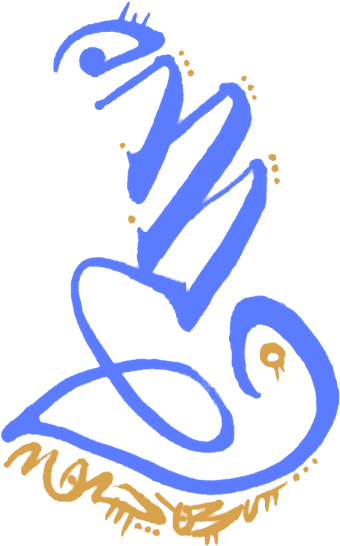
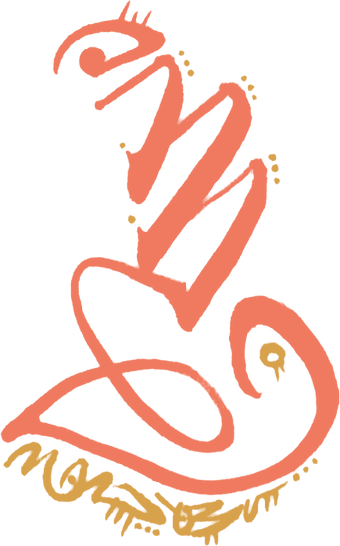
Quatre convictions, et le signe bleu passe au corail
Les textes répondent au titre : la conviction ouvre chaque bloc, le parcours
et la méthode viennent l'appuyer. « Vivre plutôt que guérir » devient
« Vivre et grandir » — la formule de comparaison n'avait plus sa place.

Le signe de « Sortir des conditionnements » prend le corail de la famille
(#F07A5F, celui des trois autres) et garde ses touches d'or.

Le tracé disparaît de la section du formulaire. À 0,055 d'opacité sur cette
photo d'eau, on ne le voyait pas ; monté assez haut pour se voir, il barre
la photo d'un voile en diagonale. C'est le même constat que sur la section
art. Reste une section qui porte les deux, « Apprendre à danser avec la
vie », où le tracé traverse la photo verticalement.

Changed region(s): [[0.0, 0.0, 1.0, 0.9341]]

diff --git a/src/content/pages/accueil.md b/src/content/pages/accueil.md
@@ -114,14 +114,14 @@ difference_titre: "Ce en quoi *je crois*"
 difference:
   - titre: "De l'invisible au concret"
     piege: "Des accompagnants très sensibles, sans la structure pour pouvoir matérialiser ensuite."
-    texte: "Ingénieur, chef de projet puis consultant, j'ai appris à analyser, synthétiser et structurer. On écoute ce qui se passe en toi, puis on décide et on construit."
+    texte: "Ce qui se vit en toi mérite de prendre forme. Ingénieur, chef de projet puis consultant, j'ai appris à analyser, synthétiser et structurer : on écoute ce qui se passe, puis on décide et on construit."
   - titre: "Marcher avec son ombre"
     piege: "Une spiritualité qui fait de la lumière et de l'éveil un objectif absolu, et rejette tout le reste."
-    texte: "Ici, on apprend à aimer son ombre. L'ombre et la lumière vont ensemble : la vie est la danse entre les deux."
+    texte: "L'ombre et la lumière vont ensemble : la vie est la danse entre les deux. Ici, on apprend à aimer son ombre."
   - titre: "Sortir des conditionnements"
     piege: "Des définitions de soi qui t'enferment dans ce que tu n'es pas vraiment."
-    texte: "Revenir à ton fonctionnement unique et trouver ta force dans tes spécificités. On ne demande pas à un poisson de grimper aux arbres."
-  - titre: "Vivre plutôt que guérir"
+    texte: "Ta force est dans tes spécificités. On revient à ton fonctionnement unique. On ne demande pas à un poisson de grimper aux arbres."
+  - titre: "Vivre et grandir"
     piege: "Passer sa vie à vouloir guérir, changer, se transformer, sans jamais vivre."
     texte: "Je considère qu'il n'y a rien à réparer, juste à grandir. C'est pourquoi je privilégie l'initiation : une expérience qui imprime l'être au-delà du mental, et ouvre des portes jusque-là inaccessibles."
 ---
